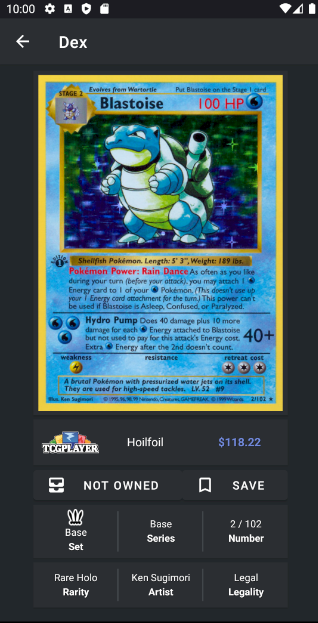
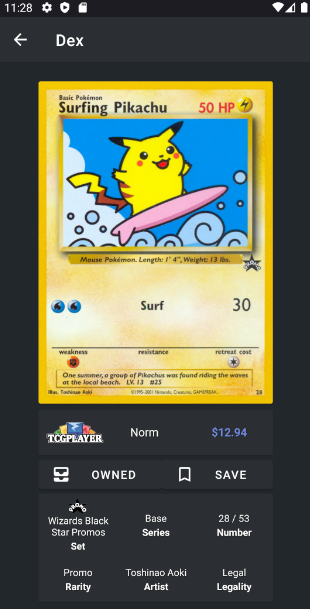
Updated ui

diff --git a/app/src/main/java/android/example/dex/ui/adapters/CollectionViewHolder.java b/app/src/main/java/android/example/dex/ui/adapters/CollectionViewHolder.java
@@ -37,6 +37,7 @@ public class CollectionViewHolder extends RecyclerView.ViewHolder {
     private final TextView tvName;
     private final TextView tvPrice;
     private final Chip chipCardType;
+    private final Chip chipRarity;
     private final TextView tvSet;
     public final Button btnDeletePokemon;
     private final TextView tvSetDate;
@@ -48,6 +49,7 @@ public class CollectionViewHolder extends RecyclerView.ViewHolder {
         tvName = itemView.findViewById(R.id.tvName);
         tvPrice = itemView.findViewById(R.id.tvPrice);
         chipCardType = itemView.findViewById(R.id.chipCardType);
+        chipRarity = itemView.findViewById(R.id.chipRarity);
         tvSet = itemView.findViewById(R.id.tvSet);
         btnDeletePokemon = itemView.findViewById(R.id.btnDeletePokemon);
         tvSetDate = itemView.findViewById(R.id.tvSetDate);
@@ -63,6 +65,9 @@ public class CollectionViewHolder extends RecyclerView.ViewHolder {
         tvSet.setText(pokemon.getSetID().getName());
         tvPrice.setText(Prices.getPrice(pokemon));
         chipCardType.setText(Prices.getPriceType(pokemon));
+        chipRarity.setText(pokemon.getRarity());
+        chipRarity.setTextAppearanceResource(getRarityColorText(pokemon.getRarity()));
+        chipRarity.setChipStrokeColorResource(getRarityBorderColor(pokemon.getRarity()));
         tvSetDate.setText("(" + pokemon.getSetID().getReleaseYear() + ")");
         chipCardType.setTextAppearanceResource(getColorText(Prices.getPriceType(pokemon)));
         chipCardType.setChipStrokeColorResource(getBorderColor(Prices.getPriceType(pokemon)));
@@ -84,13 +89,13 @@ public class CollectionViewHolder extends RecyclerView.ViewHolder {
     }
 
     private int getColorText(String cardType) {
-        if (cardType.equals("1st Edition Holofoil")) {
+        if (cardType.equals("1st")) {
             return R.style.ChipLegendary;
-        } else if (cardType.equals("Reverse Holofoil")) {
-            return R.style.ChipEpic;
-        } else if (cardType.equals("Holofoil")) {
+        } else if (cardType.equals("R.Holo")) {
             return R.style.ChipRare;
-        } else if (cardType.equals("Normal")) {
+        } else if (cardType.equals("Holo")) {
+            return R.style.ChipRare;
+        } else if (cardType.equals("Norm")) {
             return R.style.ChipCommon;
         } else {
             return R.color.black;
@@ -98,16 +103,40 @@ public class CollectionViewHolder extends RecyclerView.ViewHolder {
     }
 
     private int getBorderColor(String cardType) {
-        if (cardType.equals("1st Edition Holofoil")) {
+        if (cardType.equals("1st")) {
             return R.color.legendary_orange;
-        } else if (cardType.equals("Reverse Holofoil")) {
-            return R.color.epic_purple;
-        } else if (cardType.equals("Holofoil")) {
+        } else if (cardType.equals("R.Holo")) {
             return R.color.rare_blue;
-        } else if (cardType.equals("Normal")) {
+        } else if (cardType.equals("Holo")) {
+            return R.color.rare_blue;
+        } else if (cardType.equals("Norm")) {
             return R.color.common_gray;
         } else {
             return R.color.black;
+        }
+    }
+
+    private int getRarityColorText(String rarity) {
+        if (rarity.equals("Common")) {
+            return R.style.ChipCommon;
+        } else if (rarity.equals("Uncommon")) {
+            return R.style.ChipRare;
+        } else if (rarity.equals("Rare") || rarity.equals("Promo")) {
+            return R.style.ChipEpic;
+        } else {
+            return R.style.ChipLegendary;
+        }
+    }
+
+    private int getRarityBorderColor(String rarity) {
+        if (rarity.equals("Common")) {
+            return R.color.common_gray;
+        } else if (rarity.equals("Uncommon")) {
+            return R.color.rare_blue;
+        } else if (rarity.equals("Rare") || rarity.equals("Promo")) {
+            return R.color.epic_purple;
+        } else {
+            return R.color.legendary_orange;
         }
     }
 }

diff --git a/app/src/main/java/android/example/dex/ui/adapters/SetViewHolder.java b/app/src/main/java/android/example/dex/ui/adapters/SetViewHolder.java
@@ -76,6 +76,22 @@ public class SetViewHolder extends RecyclerView.ViewHolder {
                                 // Get the "vibrant" color swatch based on the bitmap
                                 Palette.Swatch light_vibrant = palette.getLightVibrantSwatch();
                                 Palette.Swatch dominant = palette.getDominantSwatch();
+                                // Get pokemon list
+                                LiveData<List<Pokemon>> pokemons = MainActivity.getmSetViewModel().getAllPokemonFromSet(pokeSet.getId());
+                                pokemons.observe((LifecycleOwner) itemView.getContext(), pokemonList -> {
+                                    int card_owned = pokemonList.size();
+                                    int set_total = Integer.parseInt(pokeSet.getmTotal());
+                                    int percentage_owned = (int) (((double)card_owned / set_total) * 100);
+                                    if (percentage_owned == 100) {
+                                        if (light_vibrant != null) {
+                                            tvTotal.setTextColor(light_vibrant.getRgb());
+                                        } else if (dominant != null) {
+                                            tvTotal.setTextColor(dominant.getRgb());
+                                        }
+                                    } else {
+                                        tvTotal.setTextColor(itemView.getContext().getResources().getColor(R.color.default_text));
+                                    }
+                                });
                                 // Change vert_bar color
                                 if (light_vibrant != null) {
                                     vert_bar.setBackgroundColor(light_vibrant.getRgb());

diff --git a/app/src/main/java/android/example/dex/db/entity/set/PokeSet.java b/app/src/main/java/android/example/dex/db/entity/set/PokeSet.java
@@ -9,6 +9,9 @@ import com.google.gson.annotations.SerializedName;
 
 import org.parceler.Parcel;
 
+import java.util.Dictionary;
+import java.util.Hashtable;
+
 @Parcel
 @Entity(tableName = "set_table")
 public class PokeSet {
@@ -43,6 +46,31 @@ public class PokeSet {
 
     public String getReleaseDate() {
         return mReleaseDate;
+    }
+
+    public String getReleaseDateFormatted(String date) {
+        if (date.isEmpty()) {
+            return "Date not found";
+        }
+        Hashtable<String, String> months = new Hashtable<>();
+        months.put("01", "Jan");
+        months.put("02", "Feb");
+        months.put("03", "Mar");
+        months.put("04", "Apr");
+        months.put("05", "May");
+        months.put("06", "Jun");
+        months.put("07", "Jul");
+        months.put("08", "Aug");
+        months.put("09", "Sep");
+        months.put("10", "Oct");
+        months.put("11", "Nov");
+        months.put("12", "Dec");
+        // ex. String date = "2020/04/14
+        String[] date_parts = date.split("/");
+        String year = date_parts[0];
+        String month = months.get(date_parts[1]);
+        String day = date_parts[2];
+        return month + " " + day + ", " +year;
     }
 
     public String getId() {

diff --git a/app/src/main/java/android/example/dex/db/entity/pokemon/Prices.java b/app/src/main/java/android/example/dex/db/entity/pokemon/Prices.java
@@ -97,16 +97,16 @@ public class Prices {
             ReverseHolofoil reverseHolofoil = tcgPlayer.getPrices().getReverseHolofoil();
             FirstEditionHolofoil firstEditionHolofoil = tcgPlayer.getPrices().getFirstEditionHolofoil();
             if (normal != null) {
-                priceType = "Normal";
+                priceType = "Norm";
             }
             if (holofoil != null) {
-                priceType = "Holofoil";
+                priceType = "Holo";
             }
             if (reverseHolofoil != null) {
-                priceType = "Reverse Holofoil";
+                priceType = "R.Holo";
             }
             if (firstEditionHolofoil != null) {
-                priceType = "1st Edition Holofoil";
+                priceType = "1st";
             }
         }
         return priceType;

diff --git a/app/src/main/java/android/example/dex/ui/activities/SetDetailActivity.java b/app/src/main/java/android/example/dex/ui/activities/SetDetailActivity.java
@@ -77,7 +77,7 @@ public class SetDetailActivity extends AppCompatActivity{
         Glide.with(this).load(pokeSet.getmImages().getmSymbol()).into(ivSymbol);
         tvSetName.setText(pokeSet.getmName());
         tvSeries.setText(pokeSet.getmSeries());
-        tvReleaseDate.setText(pokeSet.getReleaseDate());
+        tvReleaseDate.setText(pokeSet.getReleaseDateFormatted(pokeSet.getReleaseDate()));
 
         // Add Observer to update recyclerview of cards (Recall: updates whenever dataset changes)
         mSearchViewModel.getAllPokemonBySet(pokeSet.getId()).observe(this, pokemons -> {
